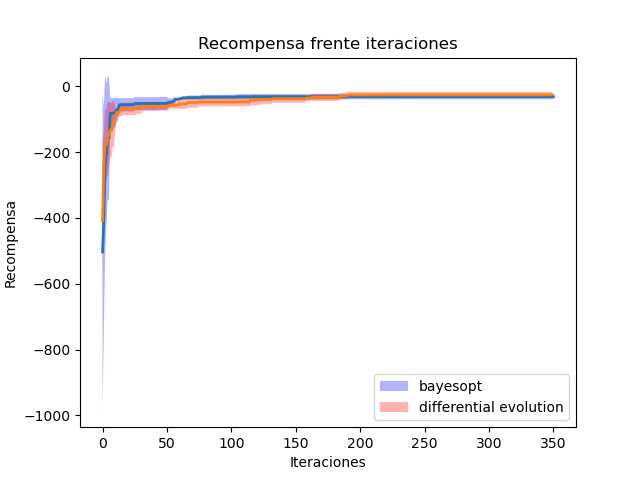
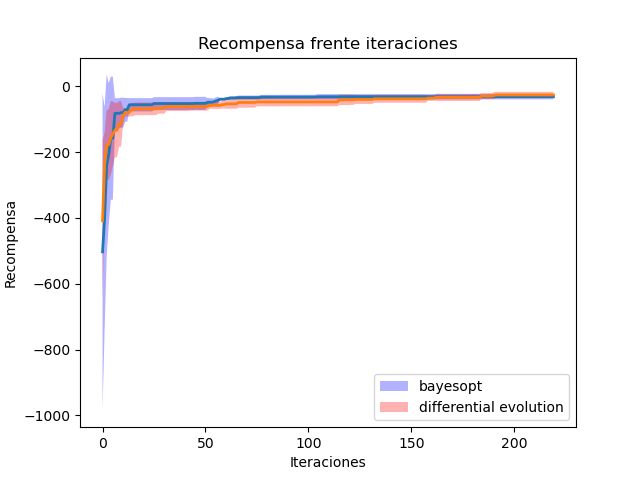
Grafica para 2 bloques.

diff --git a/print_graph.py b/print_graph.py
@@ -6,14 +6,12 @@ import scipy.stats as sp
 TASK_DIR = "slide_object/"
 TASK_NAME = "slide_block"
 # coords_type = "esfericas"
-VARIATION = "1block"
+VARIATION = "2block"
 
-# file1 = TASK_DIR + "listas_bayesopt_" + TASK_NAME + "_" + VARIATION + ".p"
-file1 = TASK_DIR + "listas_bayesopt_slideblock.p"
+file1 = TASK_DIR + "listas_bayesopt_" + TASK_NAME + "_" + VARIATION + ".p"
 resultados1 = pickle.load(open(file1, "rb"))
 
-# file2 = TASK_DIR + "listas_difevol_" + TASK_NAME + "_" + VARIATION + ".p"
-file2 = TASK_DIR + "listas_scipy_slideblock.p"
+file2 = TASK_DIR + "listas_difevol_" + TASK_NAME + "_" + VARIATION + ".p"
 resultados2 = pickle.load(open(file2, "rb"))
 
 lista_de_resultados = [resultados1, resultados2]
